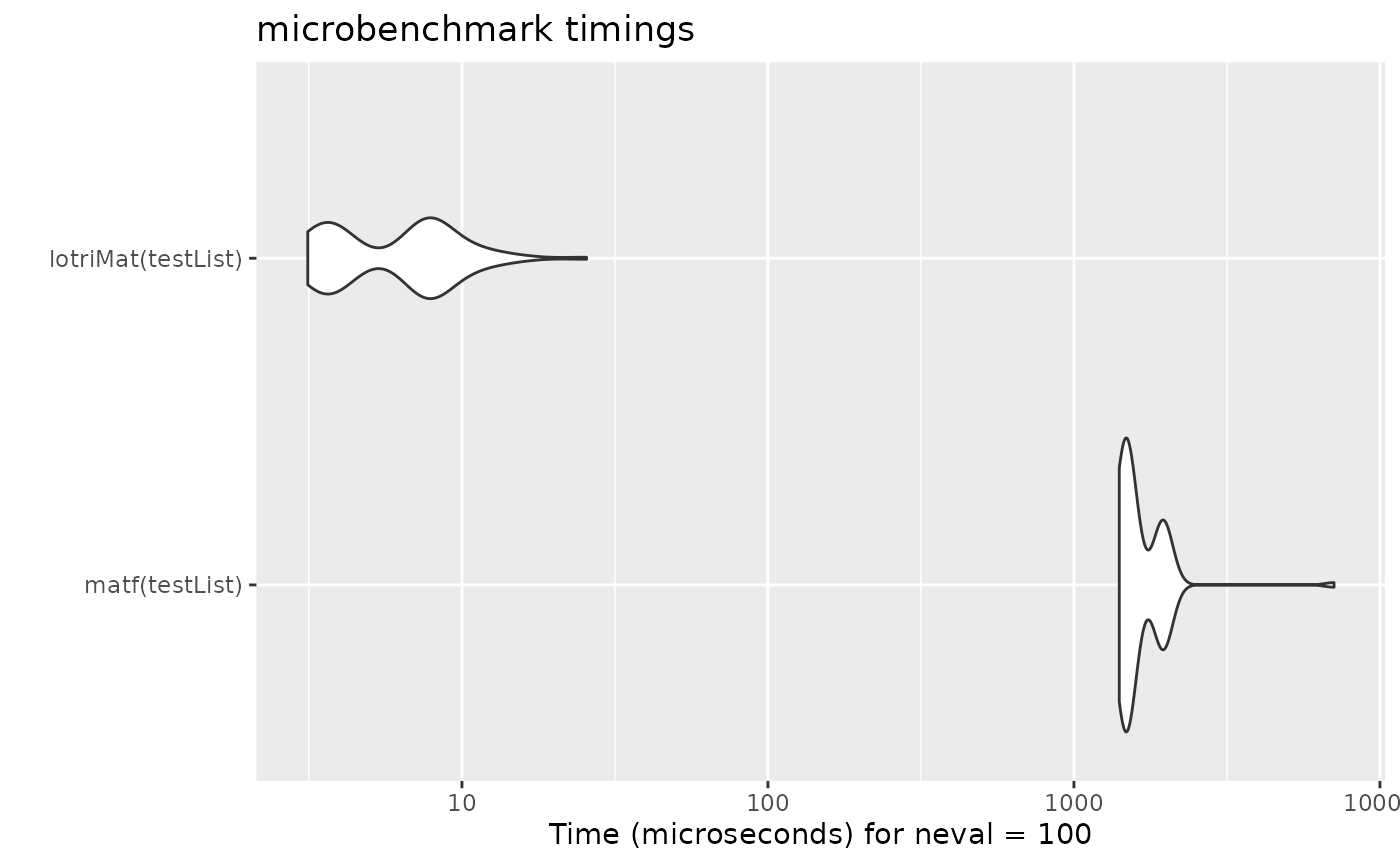
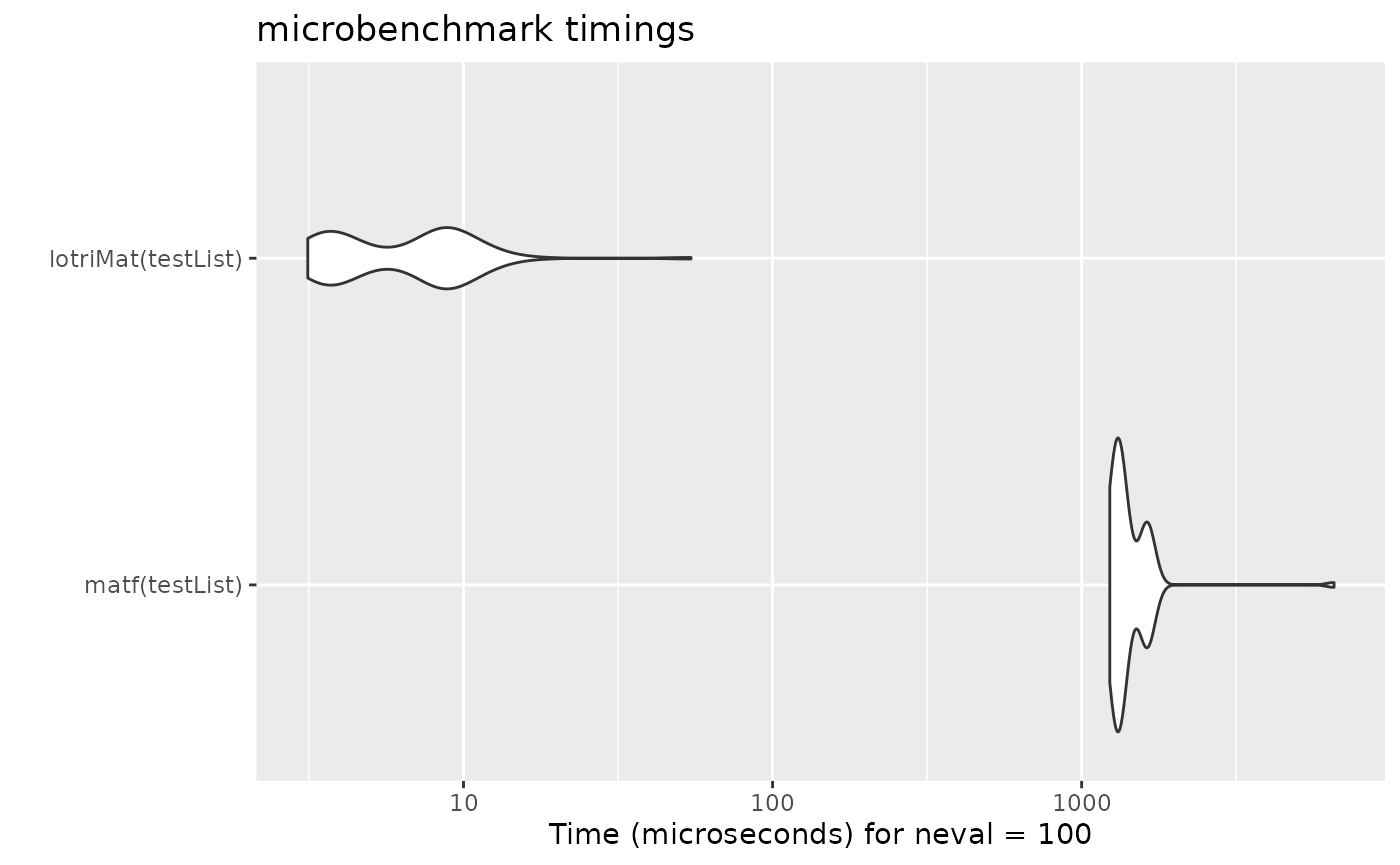
Deploying to gh-pages from @ nlmixr2/lotri@eb589a0a61f486f81ce007216a08ae3c6ba41bf6 🚀

diff --git a/reference/dot-lotriPointers.html b/reference/dot-lotriPointers.html
@@ -7,7 +7,7 @@
 
     <a class="navbar-brand me-2" href="../index.html">lotri</a>
 
-    <small class="nav-text text-muted me-auto" data-bs-toggle="tooltip" data-bs-placement="bottom" title="">1.0.3.9000</small>
+    <small class="nav-text text-muted me-auto" data-bs-toggle="tooltip" data-bs-placement="bottom" title="">1.0.4</small>
 
 
     <button class="navbar-toggler" type="button" data-bs-toggle="collapse" data-bs-target="#navbar" aria-controls="navbar" aria-expanded="false" aria-label="Toggle navigation">
@@ -59,34 +59,34 @@
     <div class="sourceCode"><pre class="sourceCode r"><code><span class="r-in"><span></span></span>
 <span class="r-in"><span><span class="fu">.lotriPointers</span><span class="op">(</span><span class="op">)</span></span></span>
 <span class="r-out co"><span class="r-pr">#&gt;</span> $lotriLstToMat</span>
-<span class="r-out co"><span class="r-pr">#&gt;</span> &lt;pointer: 0x7f845a0bd0b0&gt;</span>
+<span class="r-out co"><span class="r-pr">#&gt;</span> &lt;pointer: 0x7f812d6fd070&gt;</span>
 <span class="r-out co"><span class="r-pr">#&gt;</span> </span>
 <span class="r-out co"><span class="r-pr">#&gt;</span> $asLotriMat</span>
-<span class="r-out co"><span class="r-pr">#&gt;</span> &lt;pointer: 0x7f845a0bb2b0&gt;</span>
+<span class="r-out co"><span class="r-pr">#&gt;</span> &lt;pointer: 0x7f812d6fb2a0&gt;</span>
 <span class="r-out co"><span class="r-pr">#&gt;</span> </span>
 <span class="r-out co"><span class="r-pr">#&gt;</span> $lotriSep</span>
-<span class="r-out co"><span class="r-pr">#&gt;</span> &lt;pointer: 0x7f845a0beda0&gt;</span>
+<span class="r-out co"><span class="r-pr">#&gt;</span> &lt;pointer: 0x7f812d6fece0&gt;</span>
 <span class="r-out co"><span class="r-pr">#&gt;</span> </span>
 <span class="r-out co"><span class="r-pr">#&gt;</span> $lotriAllNames</span>
-<span class="r-out co"><span class="r-pr">#&gt;</span> &lt;pointer: 0x7f845a0bf340&gt;</span>
+<span class="r-out co"><span class="r-pr">#&gt;</span> &lt;pointer: 0x7f812d6ff280&gt;</span>
 <span class="r-out co"><span class="r-pr">#&gt;</span> </span>
 <span class="r-out co"><span class="r-pr">#&gt;</span> $lotriGetBounds</span>
-<span class="r-out co"><span class="r-pr">#&gt;</span> &lt;pointer: 0x7f845a0bb7f0&gt;</span>
+<span class="r-out co"><span class="r-pr">#&gt;</span> &lt;pointer: 0x7f812d6fb7e0&gt;</span>
 <span class="r-out co"><span class="r-pr">#&gt;</span> </span>
 <span class="r-out co"><span class="r-pr">#&gt;</span> $lotriMaxNu</span>
-<span class="r-out co"><span class="r-pr">#&gt;</span> &lt;pointer: 0x7f845a0be830&gt;</span>
+<span class="r-out co"><span class="r-pr">#&gt;</span> &lt;pointer: 0x7f812d6fe770&gt;</span>
 <span class="r-out co"><span class="r-pr">#&gt;</span> </span>
 <span class="r-out co"><span class="r-pr">#&gt;</span> $isLotri</span>
-<span class="r-out co"><span class="r-pr">#&gt;</span> &lt;pointer: 0x7f845a0bf220&gt;</span>
+<span class="r-out co"><span class="r-pr">#&gt;</span> &lt;pointer: 0x7f812d6ff160&gt;</span>
 <span class="r-out co"><span class="r-pr">#&gt;</span> </span>
 <span class="r-out co"><span class="r-pr">#&gt;</span> $lotriRcm</span>
-<span class="r-out co"><span class="r-pr">#&gt;</span> &lt;pointer: 0x7f845a0c96f0&gt;</span>
+<span class="r-out co"><span class="r-pr">#&gt;</span> &lt;pointer: 0x7f812d709600&gt;</span>
 <span class="r-out co"><span class="r-pr">#&gt;</span> </span>
 <span class="r-out co"><span class="r-pr">#&gt;</span> $lotriNearPDc</span>
-<span class="r-out co"><span class="r-pr">#&gt;</span> &lt;pointer: 0x7f845a0c49d0&gt;</span>
+<span class="r-out co"><span class="r-pr">#&gt;</span> &lt;pointer: 0x7f812d704840&gt;</span>
 <span class="r-out co"><span class="r-pr">#&gt;</span> </span>
 <span class="r-out co"><span class="r-pr">#&gt;</span> $lotriNearPDsexp</span>
-<span class="r-out co"><span class="r-pr">#&gt;</span> &lt;pointer: 0x7f845a0c4f10&gt;</span>
+<span class="r-out co"><span class="r-pr">#&gt;</span> &lt;pointer: 0x7f812d704d80&gt;</span>
 <span class="r-out co"><span class="r-pr">#&gt;</span> </span>
 </code></pre></div>
     </div>

diff --git a/articles/lotri-motivation.html b/articles/lotri-motivation.html
@@ -25,7 +25,7 @@
 
     <a class="navbar-brand me-2" href="../index.html">lotri</a>
 
-    <small class="nav-text text-muted me-auto" data-bs-toggle="tooltip" data-bs-placement="bottom" title="">1.0.3.9000</small>
+    <small class="nav-text text-muted me-auto" data-bs-toggle="tooltip" data-bs-placement="bottom" title="">1.0.4</small>
 
 
     <button class="navbar-toggler" type="button" data-bs-toggle="collapse" data-bs-target="#navbar" aria-controls="navbar" aria-expanded="false" aria-label="Toggle navigation">
@@ -64,7 +64,7 @@
                         <h4 data-toc-skip class="author">Matthew
 Fidler</h4>
             
-            <h4 data-toc-skip class="date">2026-04-02</h4>
+            <h4 data-toc-skip class="date">2026-05-13</h4>
       
       <small class="dont-index">Source: <a href="https://github.com/nlmixr2/lotri/blob/main/vignettes/lotri-motivation.Rmd" class="external-link"><code>vignettes/lotri-motivation.Rmd</code></a></small>
       <div class="d-none name"><code>lotri-motivation.Rmd</code></div>
@@ -227,9 +227,9 @@ concatenation with <code>lotriMat</code></p>
 <span></span>
 <span><span class="fu"><a href="https://rdrr.io/r/base/print.html" class="external-link">print</a></span><span class="op">(</span><span class="va">mb</span><span class="op">)</span></span>
 <span><span class="co">#&gt; Unit: microseconds</span></span>
-<span><span class="co">#&gt;                expr      min        lq       mean    median       uq      max</span></span>
-<span><span class="co">#&gt;      matf(testList) 1406.456 1458.9045 1678.38787 1511.8780 1927.499 7081.213</span></span>
-<span><span class="co">#&gt;  lotriMat(testList)    3.135    3.8015    6.67605    7.1835    8.180   25.548</span></span>
+<span><span class="co">#&gt;                expr      min        lq       mean    median        uq      max</span></span>
+<span><span class="co">#&gt;      matf(testList) 1233.385 1287.2450 1451.11548 1342.6040 1595.2310 6557.311</span></span>
+<span><span class="co">#&gt;  lotriMat(testList)    3.134    3.7535    7.29437    7.4465    8.9615   54.464</span></span>
 <span><span class="co">#&gt;  neval</span></span>
 <span><span class="co">#&gt;    100</span></span>
 <span><span class="co">#&gt;    100</span></span>

diff --git a/authors.html b/authors.html
@@ -7,7 +7,7 @@
 
     <a class="navbar-brand me-2" href="index.html">lotri</a>
 
-    <small class="nav-text text-muted me-auto" data-bs-toggle="tooltip" data-bs-placement="bottom" title="">1.0.3.9000</small>
+    <small class="nav-text text-muted me-auto" data-bs-toggle="tooltip" data-bs-placement="bottom" title="">1.0.4</small>
 
 
     <button class="navbar-toggler" type="button" data-bs-toggle="collapse" data-bs-target="#navbar" aria-controls="navbar" aria-expanded="false" aria-label="Toggle navigation">
@@ -57,13 +57,13 @@
 
       <p>Fidler M (2026).
 <em>lotri: A Simple Way to Specify Symmetric, Block Diagonal Matrices</em>.
-R package version 1.0.3.9000, <a href="https://nlmixr2.github.io/lotri/">https://nlmixr2.github.io/lotri/</a>.
+R package version 1.0.4, <a href="https://nlmixr2.github.io/lotri/">https://nlmixr2.github.io/lotri/</a>.
 </p>
       <pre>@Manual{,
   title = {lotri: A Simple Way to Specify Symmetric, Block Diagonal Matrices},
   author = {Matthew L. Fidler},
   year = {2026},
-  note = {R package version 1.0.3.9000},
+  note = {R package version 1.0.4},
   url = {https://nlmixr2.github.io/lotri/},
 }</pre>
     </div>

diff --git a/news/index.html b/news/index.html
@@ -7,7 +7,7 @@
 
     <a class="navbar-brand me-2" href="../index.html">lotri</a>
 
-    <small class="nav-text text-muted me-auto" data-bs-toggle="tooltip" data-bs-placement="bottom" title="">1.0.3.9000</small>
+    <small class="nav-text text-muted me-auto" data-bs-toggle="tooltip" data-bs-placement="bottom" title="">1.0.4</small>
 
 
     <button class="navbar-toggler" type="button" data-bs-toggle="collapse" data-bs-target="#navbar" aria-controls="navbar" aria-expanded="false" aria-label="Toggle navigation">
@@ -36,7 +36,7 @@
     </div>
 
     <div class="section level2">
-<h2 class="pkg-version" data-toc-text="1.0.3.9000" id="lotri-1039000">lotri 1.0.3.9000<a class="anchor" aria-label="anchor" href="#lotri-1039000"></a></h2>
+<h2 class="pkg-version" data-toc-text="1.0.4" id="lotri-104">lotri 1.0.4<a class="anchor" aria-label="anchor" href="#lotri-104"></a></h2>
 <ul><li><p>Fix unsigned integer underflow in <code>rcm.cpp</code>: when called with a 0-row matrix, <code>n-1</code> would wrap to <code>UWORD_MAX</code> causing an infinite loop; added an early-return guard for <code>n == 0</code>.</p></li>
 <li><p>Fix type narrowing and underflow in <code>nearPD.cpp</code>: changed <code>unsigned int n</code> to <code>arma::uword</code> to prevent silent 32-bit truncation; added <code>n == 0</code> early-return guard to prevent out-of-bounds access on the eigenvalue vector.</p></li>
 <li><p>Fix variable shadowing in <code>lotriProp.c</code>: local <code>double val</code> renamed to <code>inVal</code> to eliminate <code>-Wshadow</code> warning against the function parameter.</p></li>

diff --git a/404.html b/404.html
@@ -26,7 +26,7 @@
 
     <a class="navbar-brand me-2" href="https://nlmixr2.github.io/lotri/index.html">lotri</a>
 
-    <small class="nav-text text-muted me-auto" data-bs-toggle="tooltip" data-bs-placement="bottom" title="">1.0.3.9000</small>
+    <small class="nav-text text-muted me-auto" data-bs-toggle="tooltip" data-bs-placement="bottom" title="">1.0.4</small>
 
 
     <button class="navbar-toggler" type="button" data-bs-toggle="collapse" data-bs-target="#navbar" aria-controls="navbar" aria-expanded="false" aria-label="Toggle navigation">

diff --git a/articles/index.html b/articles/index.html
@@ -7,7 +7,7 @@
 
     <a class="navbar-brand me-2" href="../index.html">lotri</a>
 
-    <small class="nav-text text-muted me-auto" data-bs-toggle="tooltip" data-bs-placement="bottom" title="">1.0.3.9000</small>
+    <small class="nav-text text-muted me-auto" data-bs-toggle="tooltip" data-bs-placement="bottom" title="">1.0.4</small>
 
 
     <button class="navbar-toggler" type="button" data-bs-toggle="collapse" data-bs-target="#navbar" aria-controls="navbar" aria-expanded="false" aria-label="Toggle navigation">

diff --git a/index.html b/index.html
@@ -28,7 +28,7 @@
 
     <a class="navbar-brand me-2" href="index.html">lotri</a>
 
-    <small class="nav-text text-muted me-auto" data-bs-toggle="tooltip" data-bs-placement="bottom" title="">1.0.3.9000</small>
+    <small class="nav-text text-muted me-auto" data-bs-toggle="tooltip" data-bs-placement="bottom" title="">1.0.4</small>
 
 
     <button class="navbar-toggler" type="button" data-bs-toggle="collapse" data-bs-target="#navbar" aria-controls="navbar" aria-expanded="false" aria-label="Toggle navigation">

diff --git a/reference/as.lotri.html b/reference/as.lotri.html
@@ -7,7 +7,7 @@
 
     <a class="navbar-brand me-2" href="../index.html">lotri</a>
 
-    <small class="nav-text text-muted me-auto" data-bs-toggle="tooltip" data-bs-placement="bottom" title="">1.0.3.9000</small>
+    <small class="nav-text text-muted me-auto" data-bs-toggle="tooltip" data-bs-placement="bottom" title="">1.0.4</small>
 
 
     <button class="navbar-toggler" type="button" data-bs-toggle="collapse" data-bs-target="#navbar" aria-controls="navbar" aria-expanded="false" aria-label="Toggle navigation">

diff --git a/reference/index.html b/reference/index.html
@@ -7,7 +7,7 @@
 
     <a class="navbar-brand me-2" href="../index.html">lotri</a>
 
-    <small class="nav-text text-muted me-auto" data-bs-toggle="tooltip" data-bs-placement="bottom" title="">1.0.3.9000</small>
+    <small class="nav-text text-muted me-auto" data-bs-toggle="tooltip" data-bs-placement="bottom" title="">1.0.4</small>
 
 
     <button class="navbar-toggler" type="button" data-bs-toggle="collapse" data-bs-target="#navbar" aria-controls="navbar" aria-expanded="false" aria-label="Toggle navigation">

diff --git a/reference/lotri.html b/reference/lotri.html
@@ -7,7 +7,7 @@
 
     <a class="navbar-brand me-2" href="../index.html">lotri</a>
 
-    <small class="nav-text text-muted me-auto" data-bs-toggle="tooltip" data-bs-placement="bottom" title="">1.0.3.9000</small>
+    <small class="nav-text text-muted me-auto" data-bs-toggle="tooltip" data-bs-placement="bottom" title="">1.0.4</small>
 
 
     <button class="navbar-toggler" type="button" data-bs-toggle="collapse" data-bs-target="#navbar" aria-controls="navbar" aria-expanded="false" aria-label="Toggle navigation">

diff --git a/reference/lotriAsExpression.html b/reference/lotriAsExpression.html
@@ -7,7 +7,7 @@
 
     <a class="navbar-brand me-2" href="../index.html">lotri</a>
 
-    <small class="nav-text text-muted me-auto" data-bs-toggle="tooltip" data-bs-placement="bottom" title="">1.0.3.9000</small>
+    <small class="nav-text text-muted me-auto" data-bs-toggle="tooltip" data-bs-placement="bottom" title="">1.0.4</small>
 
 
     <button class="navbar-toggler" type="button" data-bs-toggle="collapse" data-bs-target="#navbar" aria-controls="navbar" aria-expanded="false" aria-label="Toggle navigation">

diff --git a/reference/lotriDataFrameToLotriExpression.html b/reference/lotriDataFrameToLotriExpression.html
@@ -7,7 +7,7 @@
 
     <a class="navbar-brand me-2" href="../index.html">lotri</a>
 
-    <small class="nav-text text-muted me-auto" data-bs-toggle="tooltip" data-bs-placement="bottom" title="">1.0.3.9000</small>
+    <small class="nav-text text-muted me-auto" data-bs-toggle="tooltip" data-bs-placement="bottom" title="">1.0.4</small>
 
 
     <button class="navbar-toggler" type="button" data-bs-toggle="collapse" data-bs-target="#navbar" aria-controls="navbar" aria-expanded="false" aria-label="Toggle navigation">